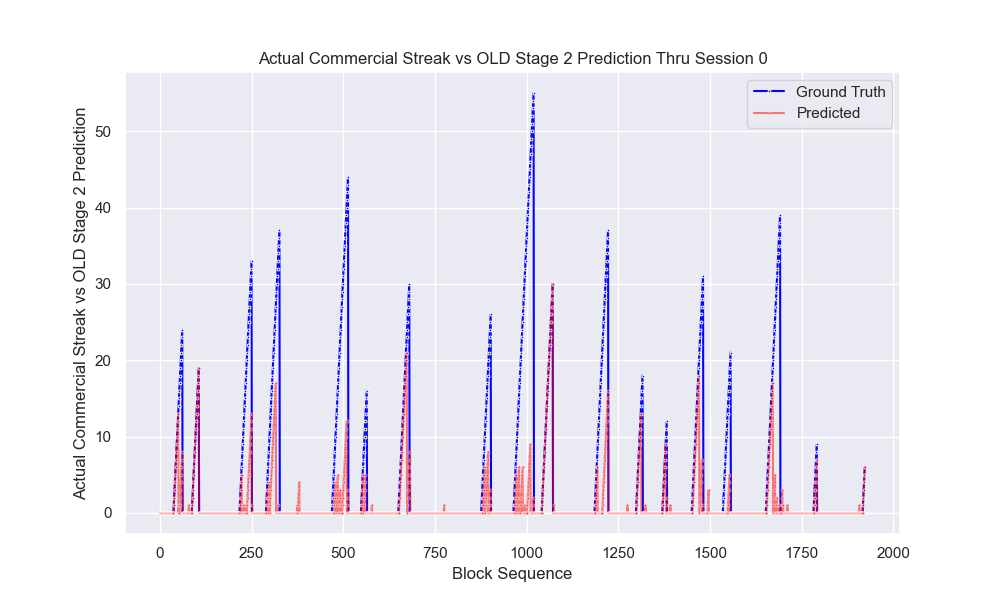
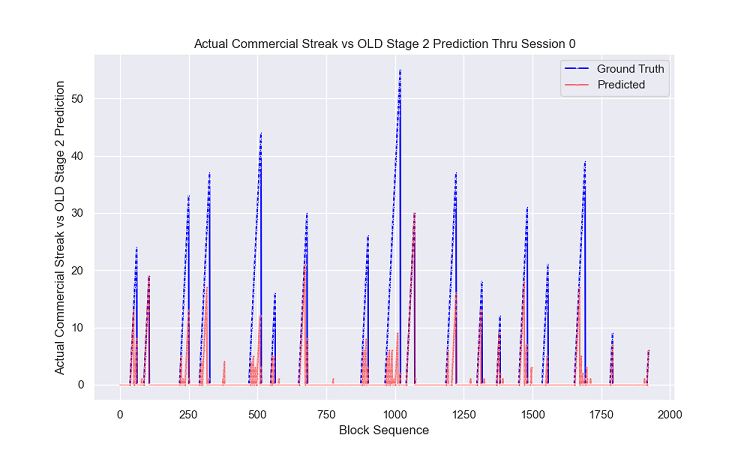
nearly completed readme.md and associated images

diff --git a/README.md b/README.md
@@ -4,22 +4,24 @@ _Module 20.1 Initial Report and Exploratory Data Analysis (EDA)_
 
 _By Brad Brown_
 
-## Executive summary
+# Executive summary
 
-### Goal
+## Goal
 Using my previous research project and paper (["Helping an LLM improve its detection of TV Commercials in Sports Broadcasts"](https://bb-wg02.github.io/cal-cap/scope/CS229_Stanford_Poster_-_Brad_Brown.pdf)) as a starting point, can I improve on my initial research to achieve higher accuracy and more granular **detection of commercials within a television sports broadcast?** 
 
 The previous research project and paper was completed in March of 2024. The project had two stages. Stage 1 fed 15-second 'chunks' of text from 722 minutes of transcripts of the audio of TV sports broadcasts to ChatGPT via a python api, instructing it to categorize each chunk as a commercial or a sports broadcast. In Stage 2, those answers along with other statistics about each chunk were then used to train a logistic regression model to try to improve the accuracy of the initial predictions. 
 
-The business goal of the Cal Capstone project is to improve the prediction accuracy overall. The Capstone project will be particularly focused on improving the Stage 2 accuracy: 
+![COMM DETECT Model Process Flow](images/model_process_flow.png)
+
+ The business goal of the Cal Capstone project is to enable a better and new way to detect commercials and improve the prediction accuracy of the previous effort. The Capstone project will be particularly focused on improving the Stage 2 accuracy: 
 1) Rework stage 1 and stage 2 model processing and metrics to **predict whether each sentence is a commercial or not**
 2) **Use feature engineering** to improve accuracy and quality of the stage 2 model
 3) Use the **XGBoost model rather than logisitc regression model**
 
-See the section *'How we measure success'* below for detailed specific objectives.
+See the section *'How we measured success'* below for detailed specific objectives.
 
 
-### How to get to the goal
+## How to get to the goal
 
 1) We will understand and explore our data from stage 1 and its outputs. The outputs of stage 1 are the inputs to stage 2. Look for data quality errors and insights about potential feature engineering and prioritization hints.
 
@@ -34,7 +36,7 @@ See the section *'How we measure success'* below for detailed specific objective
 6) We will then summarize our results, draw conclusions and define next steps
 
 
-### Why it matters
+## Why it matters
 
 There are potentially millions of people that would benefit from the ability to seamless detect commercials while watching sporting events. Sporting events are very popular but commercials are the opposite - very few people desire to see them. If the transitions to and from commercials can be detected reliably, then the possibility of providing interesting content to consumers during commercials via non-TV devices is feasible. For example, short inspirational or educational snippets of video could be triggered on a consumer's phone during a commercial on TV device. Therefore, every improvement possible to make the detection reliable matters to those consumers. Current techniques use visual image and audio signal processing modeling techniques. This project represents one of the first times large language models and other ML modeling techniques on that LLM's output are used to solve the commercial detection problem. It has promise to be a more real-time practical solution or potentially be part of a more effective and efficient ensemble of modeling approach.
 
@@ -42,12 +44,12 @@ With the initial research project, F1 macro score of individual chunk prediction
 
 Therefore, **this project moves to a more granular sentence-based approach rather than a '15-second chunk' based approach.** While sentence block prediction is a more challenging task, if successful, it makes it a more useful result, especially if by using feature engineering and XGBoost, the system can produce an end result that is still 89% F1 macro score or higher.
 
-### Findings Summary
+## Findings Summary
 #### A straight forward 4% (F1 macro) overall improvement is possible in the Cal Capstone project approach. 
 
 - Most of the overall 4% improvement is due to feature engineering.
 
-#### An additional 5% improvement (total 9%) is possible in the Cal Capstone project approach but it is likely hard to achieve this in practice
+#### An additional 5% improvement (total 9%) is possible in the Cal Capstone project approach but it is likely difficult to achieve this gain in practice
 - If the training data exposes the actual ground truth category of the previous sentence and its relevant derived columns (e.g.,'Number of Sentence Since Sports Broadcast') to the current sentence prediction, then the F1 score jumps to 98% from 93%.
 - However, in a real-time system the corrected label feedback loop would not be that immediate - could not get the actual previous sentence category in under a second.
 
@@ -61,17 +63,39 @@ Therefore, **this project moves to a more granular sentence-based approach rathe
 
 
 
-![act_vs_pred_comm_streak_new_stage2.png](https://bb-wg02.github.io/cal-cap/output/act_vs_pred_comm_streak_previous_stage2.png)
+![act_vs_pred_comm_streak_new_stage2.png](/images/act_vs_pred_comm_streak_previous_stage2.png)
 
-![act_vs_pred_comm_streak_new_stage2.png](https://bb-wg02.github.io/cal-cap/output/act_vs_pred_comm_streak_new_stage2.png)
+![act_vs_pred_comm_streak_new_stage2.png](/images/act_vs_pred_comm_streak_new_stage2.png)
 
 
-#### Future Work and Development
+### Note above how the red lines more closely track the blue lines in the second chart.
 
-#### Next Steps and Recommendations
 
-#### How we measure success
-The previous project correctly relied on Confusion Matrices as well as F1, Precision, and Recall accuracy metrics to judge commercial detection effectiveness. 
+
+## Future Work and Development
+We learned that XGBoost, sentence-based analysis, and feature engineering will improve accuracy at a more helpful granular level. We also learned that if we could get actual categorization for previous sentences, the accuracy improves significantly. Therefore, the most logical directions for future work would fall into two areas: 
+1) Quantitative work to try additional models such as a **a long short-term memory model (LSTM) neural network** 
+2) Technical work to **get more real-time feedback of the actual categorization of past sentences** (during the game)
+
+Because ChatGPT and LLM capabilities are advancing so quickly, a **3rd area to explore is to use newer models of LLMs** - it's possible that Stage 1 will become so effective that there is no need for Stage 2, in particular the multi-model sound and video capabilities of LLMs.
+
+**Another 4th promising direction is to supplement the system with a retrieval augmented generation (RAG) approach** in Stage 1. A vector-database of past sentences or groups of sentences could give the LLM more context to determine that the current sentence is a commercial or not. The total population of commercials is relatively limited and advertisers repeat the same commercials, often several times in the same sports broadcast.
+
+
+## Next Steps and Recommendations
+
+The success with granular sentence-based categorization and the improvement in accuracy from feature engineering and XGBoost indicates that a more robust pilot version of the system should be created using these techniques and tested on larger data sets ASAP.
+
+As developers design the next version, they should keep an eye towards eventually creating a fast feedback loop so that the system could have the actual correct history of previous sentence categories available. But before developers implement, researchers should quickly test how much improvement can be gained,  if there is a lag of 10+ sentences before ground truth categorizations are available to the current sentence prediction. We now know that a one sentence lag is very valuable (5% accuracy boost) but the usefulness of a larger lag may decrease rapidly.
+
+If quantitative resources are available, we recommend to start a RAG based research effort. RAG may have the higest marginal return on investment (ROI) by improving Stage 1 accuracy using existing LLM technology and a vector-database of commercials.
+
+Leadership should keep a close eye on the trends of improvements in the capabilities of LLMs and consider investing in prototypes using advanced LLMs.
+
+Feature engineering gave a major boost in this research project. However, engineered features are derived from base features. In our case, the base feature is an estimate from Stage 1. Trying to extract even more accuracy from derivations on an previous sentence category estimate is likely to have a low marginal ROI. Improving Stage 1 estimates or creating a fast feedback loop to get ground truth labels of past sentences may provide a bigger impact.
+
+## How we measured success
+The previous project relied on Confusion Matrices as well as F1, Precision, and Recall accuracy metrics to judge commercial detection effectiveness. 
 > The essence of the F1 Score lies in its ability to capture the trade-off between the two critical components of a model's performance: the precision, which measures how many of the items identified as positive are actually positive, and recall, which measures how many of the actual positives the model identifies. 
 > From: [DeepGram](https://deepgram.com/ai-glossary/f1-score-machine-learning) , Feb 2024
 
@@ -81,7 +105,9 @@ The choice of F1 *Macro average* rather than F1 *Micro average* is because the d
 
 The confusion matrix is an excellent mechanism to visualize the distribution of the data into 4 intuitive boxes. We can easily see how many true positive and true negatives there are, but also see determine whether or not our misclassifications tend towards false positives or tend towards false negatives.
 
-In the Cal Capstone project, we will again use these measures, but there are changes being made to the data structures and our analysis of the business needs also inspire changes in our prediction approach: sentence-based and windowed predictions.
+For these reasons in the Cal Capstone project, we again used these measures. Note that there are changes being made to the data structures and our analysis of the business needs also inspired changes in our prediction approach: sentence-based and windowed predictions.
+
+### Questions to answer as we change the design:
 
 **Data structure change:Sentence-based:**
   
@@ -93,69 +119,206 @@ In the Cal Capstone project, we will again use these measures, but there are cha
 - Can we use feature engineering such as adding features that take the square of existing features to improve accuracy?
 - If the model can rely on past history of correct labels (rather than only the history of Stage 1 estimates), will it help it predict current sentence label better?
 
-**Lastly, but importantly, apply metrics for our results across different configurations to enable system designers to align more closely with the business goals and improve the user experience:**
  
-1) **Windowed, rolling, or 'smoothed' predictions:** Adopting 'windowed' predictions in Stage 1, means three of the same prediction in a row are needed to change the current prediction. 
-In a sentence-based model, will we experience  'flip flopping' where the incorrect categorizations of one sentence flips the user to the wrong context and then the next sentence flips them back and then the cycle repeats? If so, this cycle might be very annoying to end users. 
-Are the errors that cause a flip-flop between corect and incorrect predictions sentence by sentence worse than a consistent set of incorrect predictions that are slower to transition to the correct answer after a shift to or from commercials? 
-In essence is it better to have your errors grouped together within long chains of sentences? We will measure both ways. If each has close to the same accuracy, then the product designers can choose the experience that users prefer.
+ **Windowed, rolling, or 'smoothed' predictions:** 
 
-2) **Handling Embedded commercials:**
-Should we differentiate between 'embedded commercials' vs 'standard commercials'. For example, oftentimes a sports broadcaster will promote a product while still talking about the sporting event in the same sentence: 'Let's take a look at our Coca Cola top player of the game statistics…'. *For this project, we will NOT attempt to categorize 'embedded commercials'.*
-
-#### **In summary, the metrics we will use are F1 Macro, Recall and Precision as well as Confusion Matrices. They will be applied in mulitiple contexts.**
-#### BASELINE:
-##### -->A) Previous research baseline values
-#### Cal Capstone:
-##### -->B) Stage 1 using new sentence-based approach
-#### For XGBoost model and Logistic Regression Models:
-##### -->C) Stage 2 using new sentence-based approach WITHOUT feature engineering and WITHOUT Windowed Predictions
-##### -->D) Stage 2 using new sentence-based approach WITH feature engineering but WITHOUT Windowed Predictions
-##### -->E) Stage 2 using new sentence-based approach WITH feature engineering and WITH Windowed Predictions
-##### -->F) Stage 2 like Stage E except we make the assumption that we know the actual (ground truth) category for the previous sentence
-#####
-
-**Data Exploration and Insights**
+- Adopting 'windowed' predictions in Stage 1, means three of the same prediction in a row are needed to change the current prediction. 
+- In a sentence-based model, will we experience  'flip flopping' where the incorrect categorizations of one sentence flips the user to the wrong context and then the next sentence flips them back and then the cycle repeats? If so, this cycle might be very annoying to end users. 
+- Are the errors that cause a flip-flop between corect and incorrect predictions sentence by sentence worse than a consistent set of incorrect predictions that are slower to transition to the correct answer after a shift to or from commercials? 
 
 
-    Data insights are …
+**In summary, the metrics we used are F1 Macro, Recall and Precision as well as Confusion Matrices. They were applied in mulitiple contexts:**
 
-**Feature Engineering**
+##### BASELINE:
+- A) Previous research baseline values
+##### Cal Capstone:
+
+- B) Stage 1 using new sentence-based approach
+
+- **For XGBoost model and Logistic Regression Models:**
+
+  - C) Stage 2 using new sentence-based approach WITHOUT feature engineering and WITHOUT Windowed Predictions
+
+  - D) Stage 2 using new sentence-based approach WITH feature engineering but WITHOUT Windowed Predictions
+
+  - E) Stage 2 using new sentence-based approach WITH feature engineering and WITH Windowed Predictions
+
+  - F) Stage 2 like Stage E except we make the assumption that we know the actual (ground truth) category for the previous sentence
+
+## Data Exploration and Insights
+
+Data ultimately comes from 7+ hours of video including commercials. Here is link to one now, if you want to review a few seconds of one.
+
+#### One of 4 videos in data set: [Warriors Vs Nets NBA Basketball Video](https://lbinc.wistia.com/medias/bdyp4awihy?wtime=35m33s)
+
+As part of my project, I had the 7 hours of video transcribed to raw text files. Here is a sample of  the format. The bracket characters [] hold the time stamp relative to the start of the recording. Timestamps are in format [hour:minute:second.microsecond]. Snippet of transcript below.
+
+> **[00:35:30.286]**
+
+> Nets lead by three after one.
+
+> Shout out to formerly the starters, no dunks crew, and to Ian Eagle himself. The bird loves wedgies. A good start to this night here at Barclays. **[00:35:45.332]**
+
+>  Can't be a pop star? Mmm, doubt it.
+
+> Chauncey!
+
+> This is rough, but it's also finished.
+
+> I know what you want to do. Yeah, don't touch... Please don't touch that. **[00:36:00.149]**
+
+> Get ready, America.
+
+> Good morning, with Dulcolax.
+
+> Good, good, good morning. Yeah.
+
+> Try Dulcolax Chewy Fruit Bites for fast and gentle constipation relief in as little as 30 minutes. Making **[00:36:15.716]**
 
 
-    Features engineering process was …
+### The most central table in the project is the **llm_predictions** table. It holds the the prediction output from chatgpt API about whether the text is a commercial or sports broadcast. 
 
-**Model Development Process**
+It also holds the statistics about the text block that we use to try to improve the chatgpt prediction using other ML Modeling techniques. The most important columns are:
+- response_classification_c: Stage 1 prediction - values 0 for 'Sports Broadcast' and 1 for 'Commercial'
+- num_blocks_since_sb - Number of sentences since seen a sports broadcast
+- num_blocks_since_c - Number of block since seen a commercial
+- sb_blocks_so_far - total number of sport broadcast sentences seen so far in the game
+- c_blocks_so_far - total number of commercial sentences seen so far in the game
+- sports_broadcasting_streak - number of sports broadcast sentences seen in a row (including the given sentence of this row)
+- commercial_streak - number of commercials sentences seen in a row (including the given sentence of this row)
 
+### See the notebook [insert link] for a deeper dive into the data tables and data model and how the data was generated.
 
-    The model development process was…
+### Let's look  at the actual number of sentences that are commercials in our full data set abnd how frequently STAGE 1 predicts commercials.
 
-**Model Choice**
+![sentences_bar_chart.png](images/sentences_bar_chart.png)
 
+#### So we see that the new Stage 1 predicts 802 fewer commercial sentences than actually are in the 722 minutes of video ( 3,453 actual - 2,631 predicted).
 
-    We chose…
+#### Another and better baseline stat is the confusion matrix from stage 1. The metrics from this baseline test dataset will be used to compare to stage 2 results. 
 
-**Final Modeling Process**
-
-
-    The final modeling process was …
-
-**Outcomes**
-
-
-    Our outcome was …
-
-**Summary and Final Results**
-
-
-    In summary the goal was ... and the final result was…
-
-**Future Work**
+![cm_stage1_0_old.png](images/cm_stage1_0_old.png)
 
 
-    In the future we will…
+
+#### Let's explore the most interesting feature fields we can use for stage 2. 
+
+#### **First, let's look at the commercial_streak field:** 
+#### My theory is that commercials run in bunches of contiguous groups and thus a long string of sequential sentences that are all commercials. 
+#### I think we can use the pattern that the last X sentences were predicted to be commercials to inform the stage 2 model about whether the current text block is a commercial or not.
+### Look at this chart of the actual commercial streaks:
+
+![placeholder](images/com_streak.png)
 
 
-----
+### Yet, when we look at what Stage 1 predicted, the streaks are not consistently increasing. They rise and fall back 0 and start again multiple times inside the ground truth streaks triangles.
+
+full chart
+![act_vs_pred_comm_streak_new_stage2.png](/images/act_vs_pred_comm_streak_previous_stage2.png)
+
+### Zooming in on first 400 sentences...
+![zoomed_act_vs_pred_comm_streak_previous_stage2.png](/images/zoomed_act_vs_pred_comm_streak_previous_stage2.png)
+
+### We will aim to get the red triangles to map closely to the blue triangles
+
+# 2. Data Split Strategy
+
+### Since we are analyzing a time-series data set we won't use random splits. With time series data we need to be very careful to avoid data leakage risks. We will split by session (or game). 
+
+#### We have 4 games in our 10,000+ sentences data set and we will hold back one game (session_id=0) as the test set. The rest will be used for training. Session 0 holds 18% of the sentences.
+
+
+![game_sentences.png](images/game_sentences.png)
+
+
+# 3. Feature Engineering
+
+For a time-series based analysis it is often useful to create Lag and Rolling features. Will create several of each for the **target value llm_prediction.response_classification_c**
+
+We also create several features based on hunches, visualization observations, and subject matter expertise.
+
+Examples are: exponential decay feature, length of sentence, square and square root of blocks seen so far, etc
+
+
+![placeholder](images/after_fe.png)
+
+**We then do Feature Selection using Sequential Feature Selection (SFS) from sklearn.**
+
+**SFS "backward" selection removes features in what is called a 'greedy' algorithm. A greedy algorithm tackles problems by making the locally optimal choice at each step, hoping it leads to a globally optimal solution. In this case, at each step, the process selects the optimal feature to remove based on the cross-validation F1 score.**  
+
+**After experimentation, I decided on narrowing down to the 10 best features.**
+![after_sfs.png](images/after_sfs.png)
+
+### We checked for NaNs in our data AFTER feature engineering
+### Note that NaNs come from lag columns that we engineered because they can't get values prior to the beginning of the data sets. 
+
+**NaN check AFTER FEATURE ENGINEERING**
+- Train set Nans: 87
+- Train set Nans: 29
+- % of training rows with at least one NaN: 0.01
+- % of test rows with at least one NaN: 0.02
+
+**I Left the NaNs in the data sets because below NAN TOLERANCE level we set at 0.03 and XGBoost can handle them anyway**
+
+
+# 4. Tune The Model
+
+## Model Choice
+
+**With most optimal feature set defined, now tune the model using Grid Search CV**
+
+*Note: I used a special time series split function in cross validation to avoid data leakage*
+
+![overfit_check.png](images/overfit_check.png)
+
+### Grid Search helped us find parameters that optimize for validation sets. 
+### Charts show F1 for a range of values of a given parameter (while keeping other parameters to their best fit value). 
+### From charts, we see that we are NOT overfitting because Grid Search CV chose highest point of validation curve  near the point of divergence from training curve
+
+**At these parameters, we can see the most important features of the 10 we selected:**
+
+- *Lag_2_sports_broadcasting_llm was the most important by far:*
+
+![feat_impt.png](images/feat_impt.png)
+
+### Additional Results and Analysis
+
+The main findings are in the "Findings Summary" section of this document. Also please review "Next steps" section above.
+
+Here are some more details about the results:
+
+![cm_xgb.png](images/cm_xgb_and_lr.png)
+
+See [notebook %%%name%%% for more detail]
+
+## More information 
+
+### This notebook, related code and images are hosted on github [here](https://github.com/bb-wg02/cal-cap)
 
 *(Note: Full Github source code access to this Stanford Research Project available upon request, but to review the code, you can unzip a copy of the stanford project source code in this cal capstone github - see the 'previous_research' folder)*
+
+##### Note to grading team:
+##### This cal-cap Github is self-contained in terms of code, but I have included zip files of the original code for the Stanford project and my improvements to make Stage 1 sentence-based (See previous_research folder).
+##### I believe these code zips are above and beyond the required scope of the Cal Capstone grading rubrick. I do not plan to make these githubs public.
+##### But if you feel the cal-cap github is incomplete because its data relies on code from these other githubs, I can open it up to specific graders. Thank you!
+
+
+### Outline of project
+
+FIX THESE TO BE RELEVANT TO MY PROJECT!
+
+[Link to download data](http://localhost:8888/files/Downloads/ML%20ipynb/Capstone/SuicideDetection.csv?_xsrf=2%7C01e7821a%7C54dac168862e9a75a5e46c1d11d7822e%7C1658864864) 
+
+[Link to notebook](http://localhost:8888/lab/tree/capstone/SuicideIdeationDetection.ipynb) 
+
+[Link to download notebook](http://localhost:8888/files/capstone/SuicideIdeationDetection.ipynb?_xsrf=2%7Cd31ff0b1%7C93c2c365c2bec949e09c3632966e8050%7C1662161901)
+
+[Link to evaluation](http://localhost:8888/lab/tree/capstone/CapstoneEvaluation.ipynb)
+
+[Link to download evaluation](http://localhost:8888/files/capstone/CapstoneEvaluation.ipynb?_xsrf=2%7Cd31ff0b1%7C93c2c365c2bec949e09c3632966e8050%7C1662161901)
+
+
+### Contact and Further Information
+
+Brad Brown
+Email: bradbrownwg02@gmail.com
